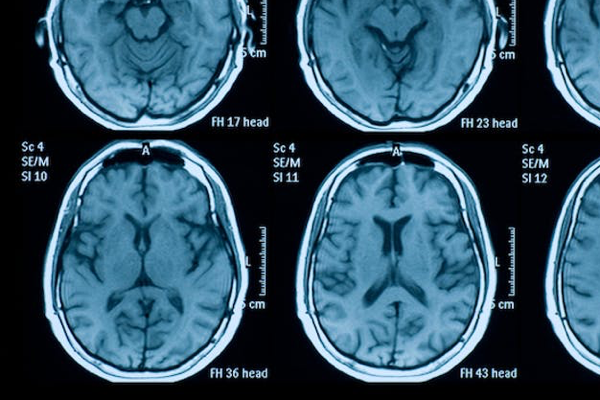
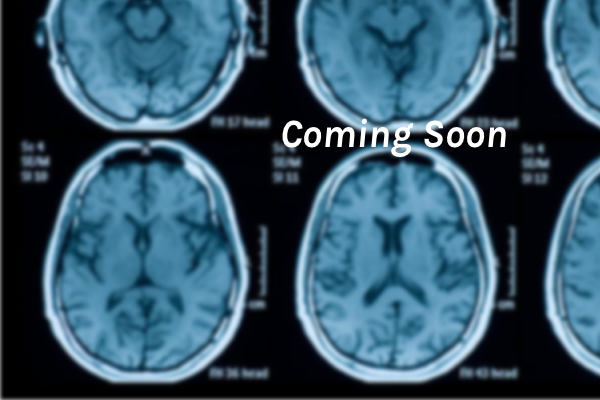
added in-progress for Medicom

diff --git a/index.html b/index.html
@@ -118,14 +118,14 @@
 					</div>
 				</div>
 
-				<div class="wolf-item portfolio-wolf-item uiux">
+				<div  class="wolf-item portfolio-wolf-item uiux">
 					<div class="wolf-item-inner">
 						<div class="wolf-media portfolio-media">
-							<a href="med.html" class="wolf-media-link"><img src="files/images/home/tmb_med-2.png" alt="photo of mri"></a>
+							<a href="#" class="wolf-media-link"><img src="files/images/home/tmb_med-2.png" alt="photo of mri"></a>
 						</div>
 
-						<div class="wolf-caption portfolio-caption">
-							<a href="med.html" class="wolf-caption-link" style="background: #F03340; padding: 15px;">
+						<div style="opacity: 0.8;"class="wolf-caption portfolio-caption">
+							<a href="#" class="wolf-caption-link" style="background: silver; padding: 15px;">
 								<h6 class="alttitle portfolio-category" style="color:#fff;">UI/UX</h6>
 								<h4 class="portfolio-name" style="color:#fff;"><strong>Medicom</strong></h4>
 							</a>
